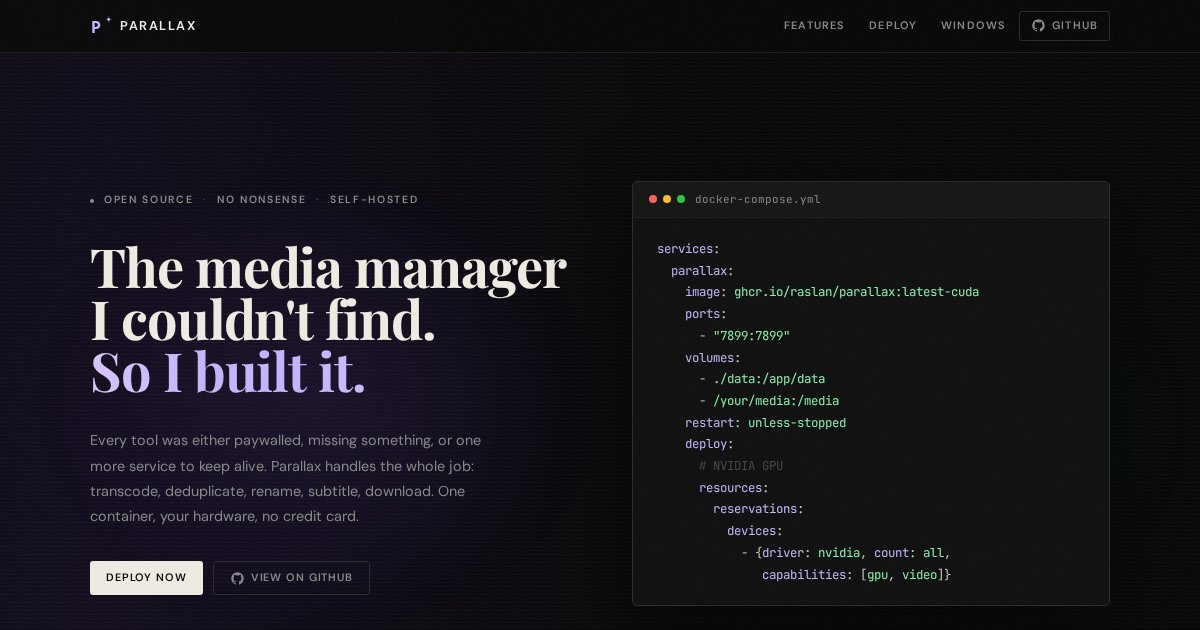
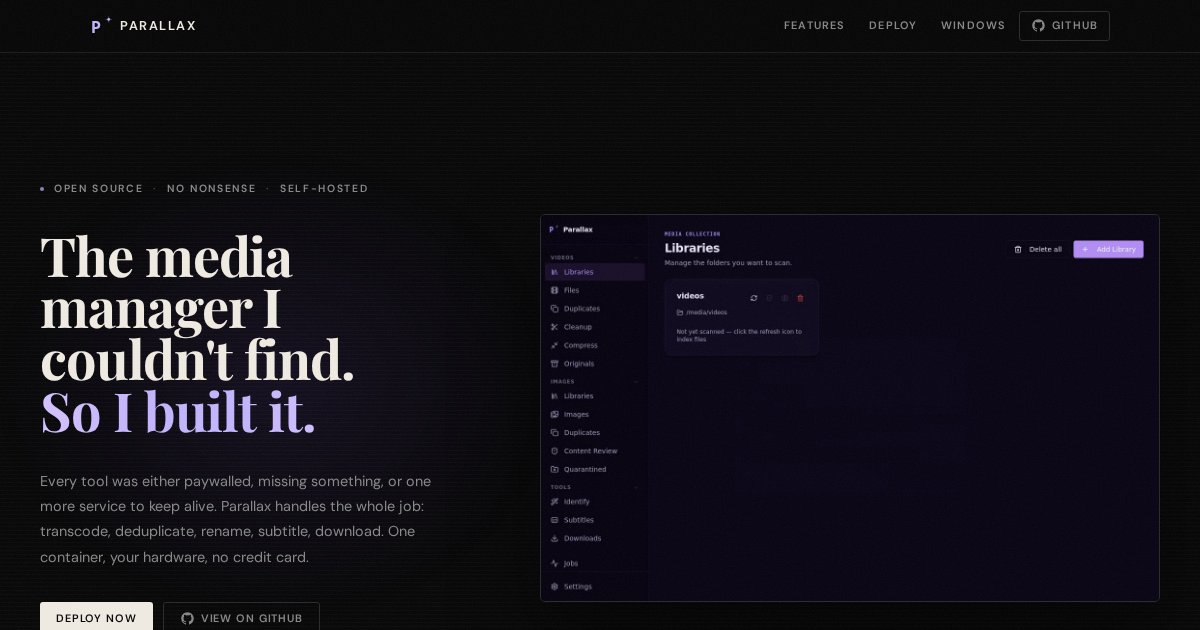
docs: update demos

diff --git a/scripts/demo-record.js b/scripts/demo-record.js
@@ -1,0 +1,232 @@
+#!/usr/bin/env node
+// Records a full Parallax demo:
+//   create library → jobs (scanning) → files → cleanup (filters + view toggle) → compress (CRF slider)
+// Output: demo/demo-library-scan.webm  (+ GIF if ffmpeg is available)
+//
+// Usage:
+//   node scripts/demo-record.js [--url http://localhost:7899] [--media-path /media/videos]
+
+const { chromium } = require("playwright");
+const { spawnSync } = require("child_process");
+const fs = require("fs");
+const path = require("path");
+
+const args = process.argv.slice(2);
+const get = (flag, def) => { const i = args.indexOf(flag); return i !== -1 ? args[i + 1] : def; };
+
+const BASE_URL   = get("--url", "http://localhost:7899");
+const MEDIA_PATH = get("--media-path", "/media/videos");
+const OUTPUT_DIR = path.join(__dirname, "../demo");
+const RAW_DIR    = path.join(OUTPUT_DIR, "_raw");
+const OUTPUT_FILE = path.join(OUTPUT_DIR, "demo-library-scan.webm");
+const GIF_FILE    = path.join(OUTPUT_DIR, "demo-library-scan.gif");
+
+const sleep = (ms) => new Promise((r) => setTimeout(r, ms));
+
+// Smoothly drag a range input from its current value to targetValue over durationMs
+async function scrubSlider(page, selector, targetValue, durationMs = 1200) {
+  const slider = page.locator(selector);
+  const box = await slider.boundingBox();
+  const min = Number(await slider.getAttribute("min") ?? 0);
+  const max = Number(await slider.getAttribute("max") ?? 100);
+  const current = Number(await slider.inputValue());
+
+  const steps = 20;
+  const interval = durationMs / steps;
+
+  for (let i = 1; i <= steps; i++) {
+    const val = Math.round(current + (targetValue - current) * (i / steps));
+    const pct = (val - min) / (max - min);
+    const x = box.x + pct * box.width;
+    const y = box.y + box.height / 2;
+    await page.mouse.move(x, y);
+    // Also fire the React onChange via fill
+    await slider.evaluate((el, v) => {
+      Object.getOwnPropertyDescriptor(window.HTMLInputElement.prototype, "value").set.call(el, String(v));
+      el.dispatchEvent(new Event("input", { bubbles: true }));
+      el.dispatchEvent(new Event("change", { bubbles: true }));
+    }, val);
+    await sleep(interval);
+  }
+}
+
+(async () => {
+  fs.mkdirSync(RAW_DIR, { recursive: true });
+
+  const browser = await chromium.launch({
+    headless: true,
+    args: ["--autoplay-policy=no-user-gesture-required"],
+  });
+
+  const ctx = await browser.newContext({
+    viewport: { width: 1280, height: 800 },
+    recordVideo: { dir: RAW_DIR, size: { width: 1280, height: 800 } },
+  });
+
+  const page = await ctx.newPage();
+
+  // ── 1. Libraries page ────────────────────────────────────────────────────────
+  console.log("1. Libraries page — creating library...");
+  await page.goto(`${BASE_URL}/libraries`);
+  await page.waitForSelector("text=Add Library", { timeout: 10_000 });
+  await sleep(800);
+
+  await page.click("button:has-text('Add Library')");
+  await page.waitForSelector("input[placeholder='/media/movies']", { timeout: 5_000 });
+  await sleep(500);
+
+  const pathInput = page.locator("input[placeholder='/media/movies']");
+  await pathInput.click();
+  await pathInput.fill(MEDIA_PATH);
+  await sleep(700);
+
+  // Last "Add Library" button is the form submit
+  await page.locator("button:has-text('Add Library')").last().click();
+  await sleep(1000);
+
+  // ── 2. Jobs page ─────────────────────────────────────────────────────────────
+  console.log("2. Jobs page — showing scan in progress...");
+  await page.goto(`${BASE_URL}/jobs`);
+  await page.waitForSelector("text=Jobs", { timeout: 5_000 });
+  await sleep(800);
+
+  try {
+    await page.waitForSelector("text=running", { timeout: 8_000 });
+    console.log("   Scan job visible and running.");
+  } catch {
+    console.warn("   No running job — scan may have completed already.");
+  }
+  await sleep(2500);
+
+  // ── 3. Files page ─────────────────────────────────────────────────────────────
+  console.log("3. Files page — showing indexed files...");
+  await page.goto(`${BASE_URL}/files`);
+  await page.waitForSelector("text=Files", { timeout: 5_000 });
+  await sleep(2000);
+
+  try {
+    await page.waitForSelector("img", { timeout: 10_000 });
+    console.log("   Files visible.");
+  } catch {
+    console.warn("   No thumbnails yet — scan may still be in progress.");
+  }
+  await sleep(2000);
+
+  // Wait for scan to finish before cleanup (Find Files requires no active scan)
+  console.log("   Waiting for scan to complete...");
+  for (let i = 0; i < 60; i++) {
+    const resp = await page.evaluate((url) =>
+      fetch(url).then((r) => r.json()), `${BASE_URL}/api/jobs?limit=5`
+    );
+    const running = (Array.isArray(resp) ? resp : resp.jobs ?? []).some((j) => j.status === "running" || j.status === "pending");
+    if (!running) break;
+    console.log("   Scan still running, waiting...");
+    await sleep(2000);
+  }
+
+  // ── 4. Cleanup page ───────────────────────────────────────────────────────────
+  console.log("4. Cleanup page — filtering files...");
+  await page.goto(`${BASE_URL}/cleanup`);
+  await page.waitForSelector("[data-testid='filter-duration']", { timeout: 10_000 });
+  await sleep(800);
+
+  // Enable Duration filter
+  console.log("   Enabling Duration filter...");
+  await page.locator("[data-testid='filter-duration']").click();
+  await sleep(600);
+
+  // Find Files
+  console.log("   Clicking Find Files (duration)...");
+  await page.click("button:has-text('Find Files')");
+  try {
+    // Results render "X files match" or "No files match"
+    await page.waitForSelector("text=/files match|No files match/", { timeout: 8_000 });
+  } catch {
+    await sleep(3000);
+  }
+  await sleep(1500);
+
+  // Enable Frame Rate filter too
+  console.log("   Enabling Frame Rate filter...");
+  await page.locator("[data-testid='filter-frame-rate']").click();
+  await sleep(600);
+
+  // Find Files again
+  console.log("   Clicking Find Files (duration + frame rate)...");
+  await page.click("button:has-text('Find Files')");
+  try {
+    await page.waitForSelector("text=/files match|No files match/", { timeout: 8_000 });
+  } catch {
+    await sleep(3000);
+  }
+  await sleep(1500);
+
+  // Switch to grid view
+  console.log("   Switching to grid view...");
+  try {
+    await page.waitForSelector("[data-testid='view-grid']", { timeout: 5_000 });
+    await page.locator("[data-testid='view-grid']").click();
+    await sleep(1200);
+  } catch {
+    console.warn("   View toggle not visible — no results returned.");
+  }
+
+  // ── 5. Compress page ──────────────────────────────────────────────────────────
+  console.log("5. Compress page — showing CRF slider...");
+  await page.goto(`${BASE_URL}/compress`);
+  await page.waitForSelector("[data-testid='crf-slider']", { timeout: 10_000 });
+  await sleep(1000);
+
+  // Wait for files to load, then select all so savings estimates show
+  try {
+    // "All" button appears once filteredFiles is non-empty
+    await page.waitForSelector("button:has-text('All')", { timeout: 10_000 });
+    await page.click("button:has-text('All')");
+    await sleep(600);
+    console.log("   Selected all files.");
+  } catch {
+    console.warn("   'All' button not found — no files loaded on compress page.");
+  }
+
+  // Scrub slider: lower CRF (higher quality) → higher CRF (smaller file)
+  console.log("   Scrubbing CRF slider...");
+  await scrubSlider(page, "[data-testid='crf-slider']", 18, 1200);
+  await sleep(600);
+  await scrubSlider(page, "[data-testid='crf-slider']", 40, 1400);
+  await sleep(600);
+  await scrubSlider(page, "[data-testid='crf-slider']", 28, 800);
+  await sleep(1500);
+
+  // ── Done ─────────────────────────────────────────────────────────────────────
+  await ctx.close();
+  await browser.close();
+
+  const recordings = fs
+    .readdirSync(RAW_DIR)
+    .filter((f) => f.endsWith(".webm"))
+    .map((f) => ({ f, mtime: fs.statSync(path.join(RAW_DIR, f)).mtimeMs }))
+    .sort((a, b) => b.mtime - a.mtime);
+
+  if (!recordings.length) {
+    console.error("No recording found in", RAW_DIR);
+    process.exit(1);
+  }
+
+  const raw = path.join(RAW_DIR, recordings[0].f);
+  fs.renameSync(raw, OUTPUT_FILE);
+  console.log(`\nSaved: ${OUTPUT_FILE}`);
+
+  const ffmpeg = spawnSync("ffmpeg", [
+    "-y", "-i", OUTPUT_FILE,
+    "-vf", "fps=20,scale=1280:-1:flags=lanczos,split[s0][s1];[s0]palettegen[p];[s1][p]paletteuse",
+    GIF_FILE,
+  ]);
+
+  if (ffmpeg.status === 0) {
+    const mb = (fs.statSync(GIF_FILE).size / 1_048_576).toFixed(1);
+    console.log(`GIF saved: ${GIF_FILE} (${mb} MB)`);
+  } else {
+    console.log("ffmpeg not found — convert manually:");
+    console.log(`  ffmpeg -i ${OUTPUT_FILE} -vf "fps=20,scale=1280:-1" ${GIF_FILE}`);
+  }
+})();

diff --git a/scripts/build-landing.js b/scripts/build-landing.js
@@ -344,11 +344,11 @@ const html = `<!DOCTYPE html>
     .hero {
       min-height: 92vh;
       display: grid;
-      grid-template-columns: 1fr 1fr;
-      gap: 4rem;
+      grid-template-columns: 420px 1fr;
+      gap: 5rem;
       align-items: center;
       padding: 8rem 2.5rem 6rem;
-      max-width: 1100px;
+      max-width: 1320px;
       margin: 0 auto;
       position: relative;
     }
@@ -443,28 +443,16 @@ const html = `<!DOCTYPE html>
       opacity: 0; animation: rise 0.9s cubic-bezier(0.16,1,0.3,1) 0.6s forwards;
     }
 
-    /* hero terminal */
-    .terminal {
+    /* hero demo gif */
+    .hero-demo {
       border: 1px solid var(--rule-hi); border-radius: 5px;
-      overflow: hidden; background: var(--bg-r);
+      overflow: hidden;
       box-shadow: 0 32px 80px rgba(0,0,0,0.7);
       opacity: 0; animation: rise 1s cubic-bezier(0.16,1,0.3,1) 0.55s forwards;
     }
-    .terminal-bar {
-      background: var(--bg-c); border-bottom: 1px solid var(--rule);
-      padding: 0.55rem 1rem;
-      display: flex; align-items: center; gap: 0.625rem;
+    .hero-demo img {
+      display: block; width: 100%; height: auto;
     }
-    .t-dots { display: flex; gap: 0.375rem; }
-    .t-dots span { width: 8px; height: 8px; border-radius: 50%; }
-    .t-dots .r { background: #ff5f57; } .t-dots .y { background: #febc2e; } .t-dots .g { background: #28c840; }
-    .t-label { font-size: 0.68rem; color: var(--mid); font-family: var(--mono); }
-    .terminal pre {
-      padding: 1.25rem 1.5rem;
-      font-family: var(--mono); font-size: 0.775rem; line-height: 1.75;
-      color: #c9c5bd; overflow-x: auto; white-space: pre;
-    }
-    .t-c { color: var(--muted); } .t-k { color: var(--acc-hi); } .t-v { color: #86efac; }
 
     @keyframes rise {
       from { opacity: 0; transform: translateY(1.25rem); }
@@ -778,7 +766,7 @@ const html = `<!DOCTYPE html>
         grid-template-columns: 1fr; min-height: auto;
         padding: 6rem 1.5rem 4rem; gap: 3rem;
       }
-      .hero-right { display: none; }
+      .hero-right { display: block; }
       .feat-split, .feat-reversed { grid-template-columns: 1fr; gap: 2.5rem; }
       .feat-reversed .feat-meta { order: 0; }
       .feat-reversed .feat-rows { order: 1; }
@@ -844,27 +832,8 @@ const html = `<!DOCTYPE html>
       </div>
     </div>
     <div class="hero-right">
-      <div class="terminal">
-        <div class="terminal-bar">
-          <div class="t-dots"><span class="r"></span><span class="y"></span><span class="g"></span></div>
-          <span class="t-label">docker-compose.yml</span>
-        </div>
-        <pre><span class="t-k">services</span>:
-  <span class="t-k">parallax</span>:
-    <span class="t-k">image</span>: <span class="t-v">ghcr.io/raslan/parallax:latest-cuda</span>
-    <span class="t-k">ports</span>:
-      - <span class="t-v">"7899:7899"</span>
-    <span class="t-k">volumes</span>:
-      - <span class="t-v">./data:/app/data</span>
-      - <span class="t-v">/your/media:/media</span>
-    <span class="t-k">restart</span>: <span class="t-v">unless-stopped</span>
-    <span class="t-k">deploy</span>:
-      <span class="t-c"># NVIDIA GPU</span>
-      <span class="t-k">resources</span>:
-        <span class="t-k">reservations</span>:
-          <span class="t-k">devices</span>:
-            - {<span class="t-k">driver</span>: <span class="t-v">nvidia</span>, <span class="t-k">count</span>: <span class="t-v">all</span>,
-               <span class="t-k">capabilities</span>: [<span class="t-v">gpu</span>, <span class="t-v">video</span>]}</pre>
+      <div class="hero-demo">
+        <img src="demo.gif" alt="Parallax in action — scanning a library, filtering files, and compressing video" width="640" height="400" loading="lazy" />
       </div>
     </div>
   </div>
@@ -1054,6 +1023,12 @@ const ogSrc = path.join(__dirname, "../og-image.jpg");
 if (fs.existsSync(ogSrc)) {
   fs.copyFileSync(ogSrc, path.join(outDir, "og-image.jpg"));
   console.log("Copied og-image.jpg to dist/");
+}
+
+const demoSrc = path.join(__dirname, "../demo.gif");
+if (fs.existsSync(demoSrc)) {
+  fs.copyFileSync(demoSrc, path.join(outDir, "demo.gif"));
+  console.log("Copied demo.gif to dist/");
 }
 
 console.log("Built dist/index.html");

diff --git a/frontend/src/pages/Cleanup.tsx b/frontend/src/pages/Cleanup.tsx
@@ -122,6 +122,7 @@ function FilterAccordion({
           type="checkbox"
           className="accent-primary h-4 w-4 shrink-0"
           checked={enabled}
+          data-testid={`filter-${label.toLowerCase().replace(/\s+/g, "-")}`}
           onChange={(e) => { e.stopPropagation(); onToggle(e.target.checked); }}
           onClick={(e) => e.stopPropagation()}
         />
@@ -789,6 +790,7 @@ export function Cleanup() {
                   onClick={() => setViewMode("list")}
                   className={`h-8 w-8 flex items-center justify-center transition-colors ${viewMode === "list" ? "bg-accent text-foreground" : "text-muted-foreground hover:text-foreground hover:bg-accent/50"}`}
                   title="List view"
+                  data-testid="view-list"
                 >
                   <List className="h-3.5 w-3.5" />
                 </button>
@@ -796,6 +798,7 @@ export function Cleanup() {
                   onClick={() => setViewMode("grid")}
                   className={`h-8 w-8 flex items-center justify-center transition-colors ${viewMode === "grid" ? "bg-accent text-foreground" : "text-muted-foreground hover:text-foreground hover:bg-accent/50"}`}
                   title="Grid view"
+                  data-testid="view-grid"
                 >
                   <LayoutGrid className="h-3.5 w-3.5" />
                 </button>

diff --git a/frontend/src/pages/Compress.tsx b/frontend/src/pages/Compress.tsx
@@ -598,6 +598,7 @@ export function Compress() {
               value={crf}
               onChange={(e) => setCrf(Number(e.target.value))}
               className="w-full accent-primary"
+              data-testid="crf-slider"
             />
             <div className="flex justify-between text-xs text-muted-foreground">
               <span>{crfRange.min} — lossless</span>

diff --git a/README.md b/README.md
@@ -2,6 +2,8 @@
 
 A self-hosted video and image library manager with hardware-accelerated compression, duplicate detection, subtitle management, and media identification. Runs in Docker, accessible from any browser.
 
+![Parallax demo](demo.gif)
+
 ## Features
 
 ### Videos